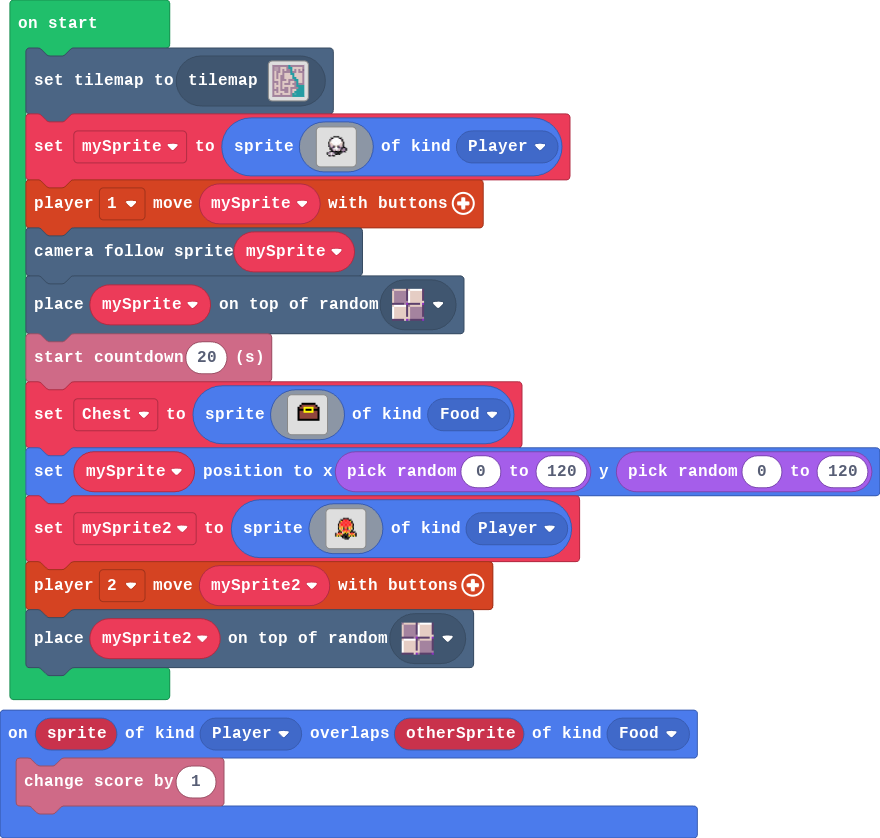
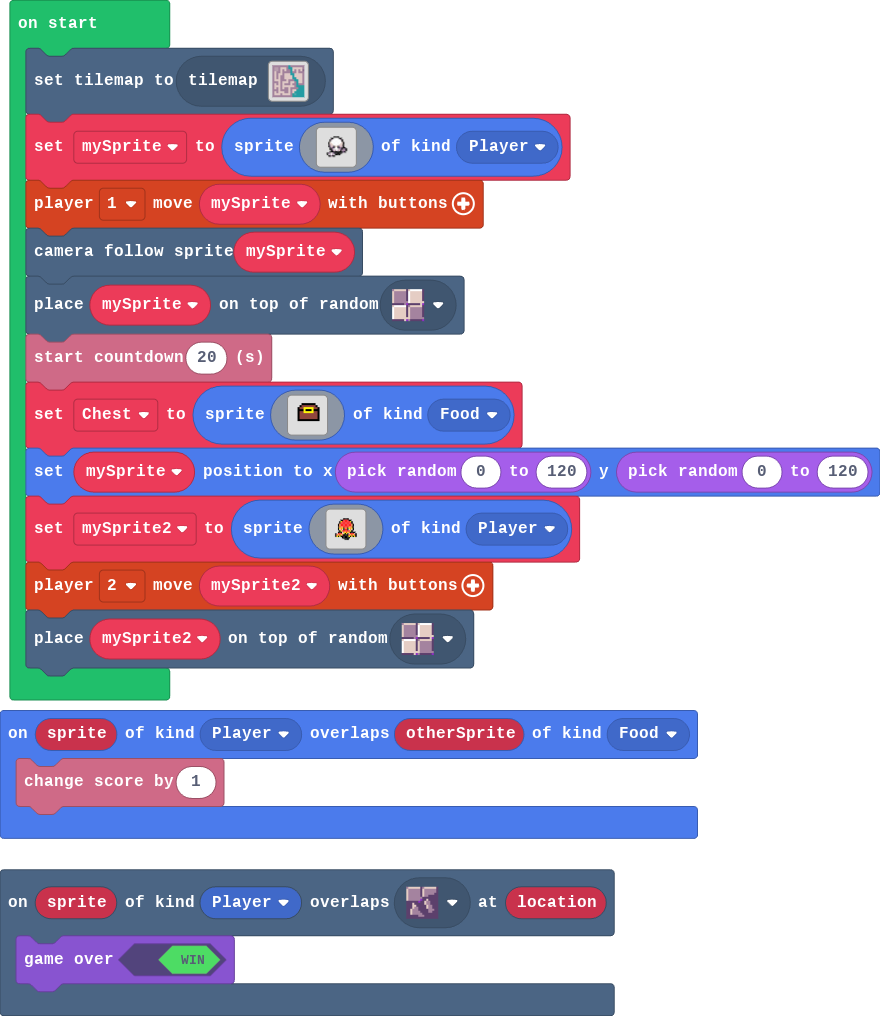
Update main.blocks, main.ts

diff --git a/main.ts b/main.ts
@@ -1,6 +1,9 @@
 sprites.onOverlap(SpriteKind.Player, SpriteKind.Food, function (sprite, otherSprite) {
     info.changeScoreBy(1)
 })
+scene.onOverlapTile(SpriteKind.Player, sprites.dungeon.floorDark3, function (sprite, location) {
+    game.gameOver(true)
+})
 tiles.setCurrentTilemap(tilemap`level3`)
 let mySprite = sprites.create(img`
     ........................
